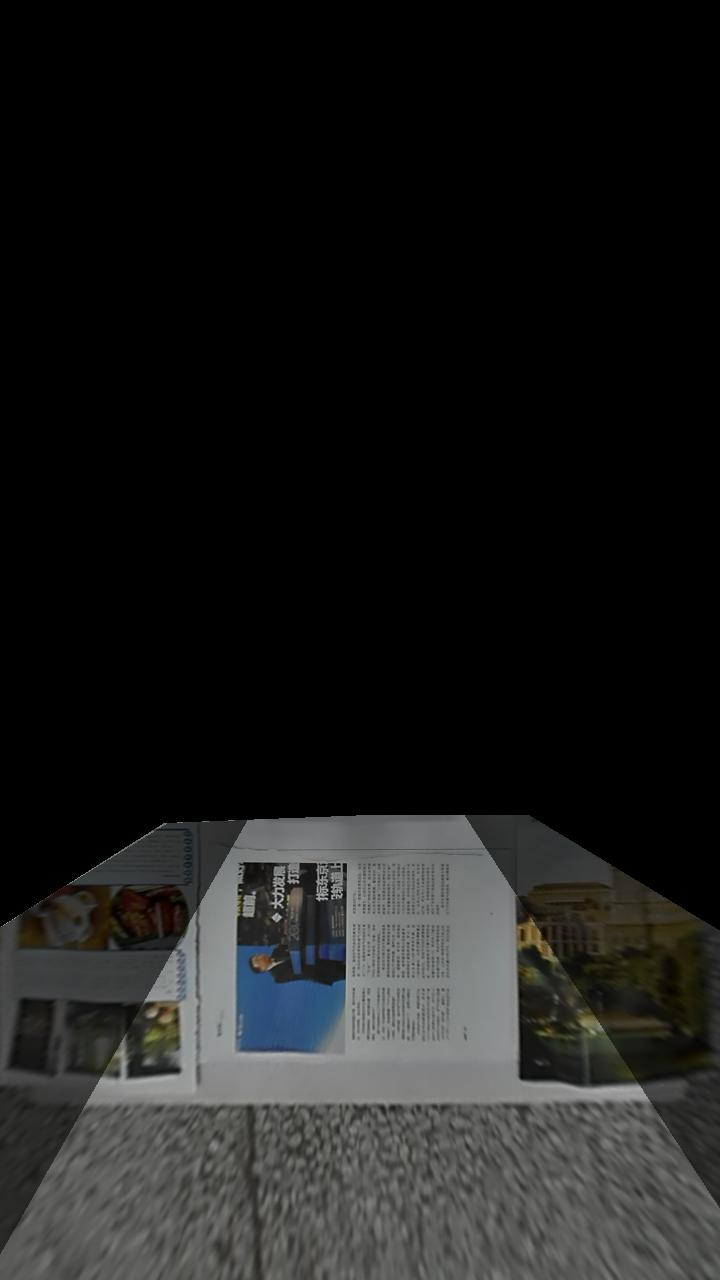
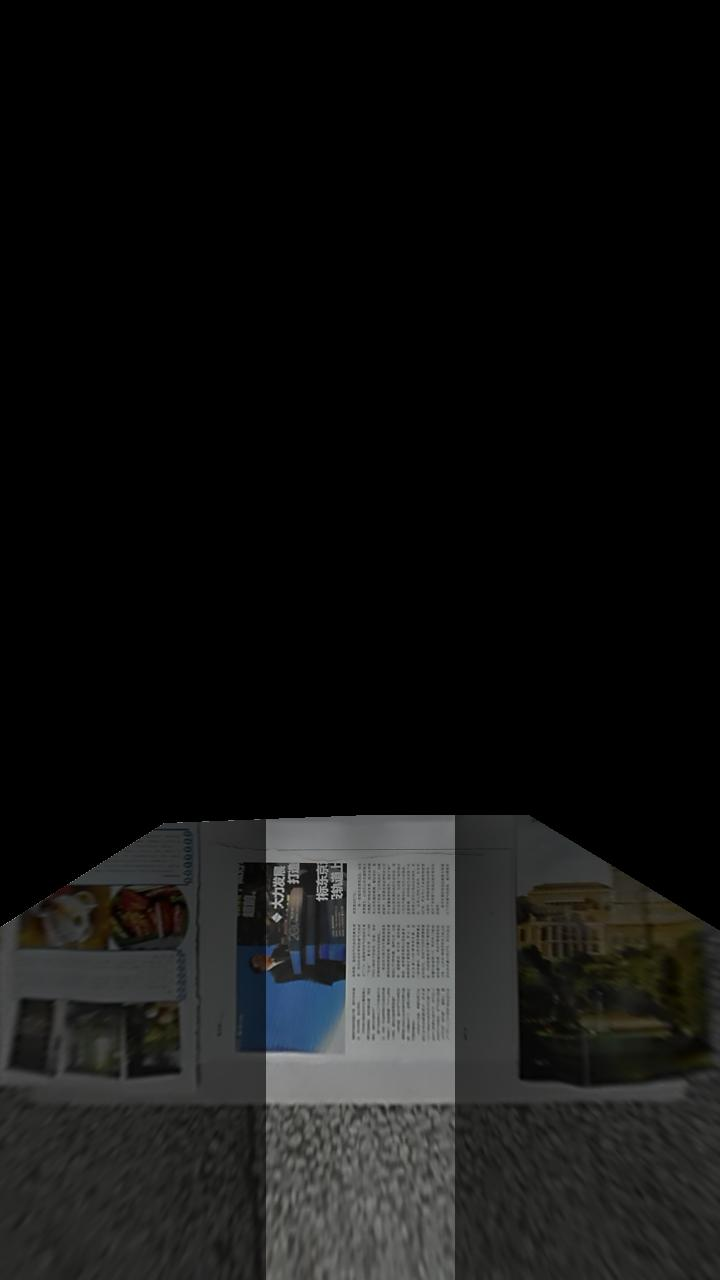
add comment

Changed region(s): [[0.6111, 0.625, 1.0, 1.0], [0.0, 0.625, 0.3667, 1.0]]

diff --git a/TopViewTable1.py b/TopViewTable1.py
@@ -4,7 +4,6 @@ import imageio
 import numpy as np
 from PIL import Image
 
-
 frame_f = imageio.imread("front_undistort.jpg")
 frame_b = imageio.imread("rear_undistort.jpg")
 frame_l = imageio.imread("left_undistort.jpg")
@@ -29,56 +28,75 @@ H_r = np.array([[-1.94364822e+000, -1.13981271e+000, 1.39862231e+003],
                 [-1.12904012e-001, -7.77252018e-002, -1.34969070e+002],
                 [-2.94386805e-003, 3.57765421e-005, 1]])
 
-
+'''
+设置前、左相机的重叠区域
+'''
 f_l_max_v = 465
 f_l_max_u = 265
 f_l_min_v = 0
 f_l_min_u = 0
 
+'''
+设置后、左相机的重叠区域
+'''
 b_l_max_v = 1280
 b_l_max_u = 265
 b_l_min_v = 815
 b_l_min_u = 0
 
+'''
+设置前、右相机的重叠区域
+'''
 f_r_max_v = 465
 f_r_max_u = 720
 f_r_min_v = 0
 f_r_min_u = 455
 
+'''
+设置后、右相机的重叠区域
+'''
 b_r_max_v = 1280
 b_r_max_u = 720
 b_r_min_v = 815
 b_r_min_u = 455
 
-
+'''
+前相机的显示区域ROI
+'''
 f_min_v = 0
 f_max_v = 465
 f_min_u = 0
 f_max_u = 720
 
+'''
+设置后相机的显示区域
+'''
 b_min_v = 815
 b_max_v = 1280
 b_min_u = 0
 b_max_u = 720
 
+'''
+设置左相机的显示区域
+'''
 l_min_v = 0
 l_max_v = 1280
 l_min_u = 0
 l_max_u = 265
 
+'''
+设置右相机的显示区域
+'''
 r_min_v = 0
 r_max_v = 1280
 r_min_u = 455
 r_max_u = 720
 
-'' \
-'frame:inputs(image)' \
-'' \
-'' \
-'' \
-'' \
-'' \
-''
+'''
+
+'''
+
+
 def get_cross_trans_fb_four(frame, H, min_u, max_u, min_v, max_v, cross_min_u1,
                             cross_max_u1, center0, center1, center2, num):
     weights = []
@@ -109,7 +127,6 @@ def get_cross_trans_fb_four(frame, H, min_u, max_u, min_v, max_v, cross_min_u1,
     return weights, out_put_pxiels, in_put_pxiels
 
 
-
 def get_gray_level_four(x, y, weight):
     z = np.array([0, 0, 0, 0])
     w = np.array([weight[1], weight[2], weight[3], weight[4]])
@@ -133,7 +150,6 @@ def get_gray_level_four(x, y, weight):
     return np.array(gray_levels)
 
 
-
 def get_cross_weight_four(frame, in_x, in_y, rate, num):
     intSx, intSy = int(in_x), int(in_y)
     frame_width, frame_height = frame.shape[0], frame.shape[1]
@@ -150,6 +166,9 @@ def get_cross_weight_four(frame, in_x, in_y, rate, num):
     return weight
 
 
+'''
+'''
+
 
 def remap_four(weights, out_put_pxiels, in_put_pxiels):
     out_put_img = np.zeros((1280, 720, frame_f.shape[2]), dtype=frame_f.dtype)
@@ -162,15 +181,16 @@ def remap_four(weights, out_put_pxiels, in_put_pxiels):
     return out_put_img
 
 
-
 '''
 获取交叉区域的权重(基于欧式距离)
 center1 图像1中心点
 center2 图像2中心点
-x       图像1/2交叉区域点x
-y       图像1/2交叉区域点y
-
+x       图像1/2重叠区域像素x
+y       图像1/2重叠区域像素y
+cross_weight 返回对应图像12权重元组
 '''
+
+
 def get_rate(center1, center2, x, y):
     dis1 = np.sqrt(pow(center1[0] - x, 2) + pow(center1[1] - y, 2))
     dis2 = np.sqrt(pow(center2[0] - x, 2) + pow(center2[1] - y, 2))
@@ -180,7 +200,6 @@ def get_rate(center1, center2, x, y):
     return cross_weight
 
 
-
 def get_rate_1(center1, x, y):
     rate1 = abs(center1[0] - x) / center1[1]
     rate2 = 1 - rate1
@@ -188,11 +207,18 @@ def get_rate_1(center1, x, y):
     return cross_weight
 
 
+'''
+centerf front视图的界线中心
+centerb 类似
 
+'''
 centerf = [360, 465]
 centerb = [360, 815]
 centerl = [265, 640]
 centerr = [455, 640]
+'''
+
+'''
 center1 = [265, 265]
 center2 = [455, 265]
 
@@ -235,7 +261,6 @@ bird = Image.fromarray(out_put_img_b1)
 bird.show()
 bird.save("birdb.jpg")
 
-
 weights_f1, out_put_pxiels_f1, in_put_pxiels_f1 = get_cross_trans_fb_four(frame_f, H_f, f_min_u, f_max_u, f_min_v,
                                                                           f_max_v, f_l_max_u, f_r_min_u, centerb,
                                                                           centerl, centerr, 0)
@@ -243,7 +268,6 @@ out_put_img_f1 = remap_four(weights_f1, out_put_pxiels_f1, in_put_pxiels_f1)
 bird = Image.fromarray(out_put_img_f1)
 bird.show()
 bird.save("birdf.jpg")
-
 
 weights_r1, out_put_pxiels_r1, in_put_pxiels_r1 = get_cross_trans_rl_four(frame_r, H_r, r_min_u, r_max_u, r_min_v,
                                                                           r_max_v, f_r_max_v, b_r_min_v, centerr,
@@ -253,7 +277,6 @@ bird = Image.fromarray(out_put_img_r1)
 bird.show()
 bird.save("birdr.jpg")
 
-
 weights_l1, out_put_pxiels_l1, in_put_pxiels_l1 = get_cross_trans_rl_four(frame_l, H_l, l_min_u, l_max_u, l_min_v,
                                                                           l_max_v, f_l_max_v, b_l_min_v, centerl,
                                                                           centerf, centerb, 1)
@@ -262,24 +285,18 @@ bird = Image.fromarray(out_put_img_l1)
 bird.show()
 bird.save("birdl.jpg")
 
-
 weights = weights_f1 + weights_l1 + weights_b1 + weights_r1
 in_put_pxiels = in_put_pxiels_f1 + in_put_pxiels_l1 + in_put_pxiels_b1 + in_put_pxiels_r1
 out_put_pxiels = out_put_pxiels_f1 + out_put_pxiels_l1 + out_put_pxiels_b1 + out_put_pxiels_r1
-
-
 
 out_put_img_1 = out_put_img_l1 + out_put_img_f1 + out_put_img_r1 + out_put_img_b1
 bird = Image.fromarray(out_put_img_1)
 bird.show()
 
-
 bird.save("bird_overall.jpg")
-
 
 weight_dict = {}
 cor_dict = {}
-
 
 for out_put, in_put, weight in zip(out_put_pxiels, in_put_pxiels, weights):
     if out_put not in weight_dict.keys():
@@ -294,13 +311,11 @@ for out_put, in_put, weight in zip(out_put_pxiels, in_put_pxiels, weights):
 #         print (out_put)
 
 
-
 # print (len(weight_dict[0,0]))
 print(cor_dict[0, 0][0] + cor_dict[0, 0][1])
 print(len(cor_dict[(0, 0)]))
 # for i in cor_dict.keys():
 #     print (len(cor_dict[i]))
-
 
 
 dt = np.dtype((np.float64, (1, 5)))
@@ -319,9 +334,8 @@ for out_put in cor_dict.keys():
         weight_table1[out_put[0], out_put[1]] = weight_dict[out_put][0]  # + weight_dict[out_put][1]
         cor_table1[out_put[0], out_put[1]] = cor_dict[out_put][0]  # + cor_dict[out_put][1]
 
-
 # print (weight_table)
-print(cor_table)
+print(cor_table1)
 
 
 def remap(weights, out_put_pxiels, in_put_pxiels):
@@ -339,14 +353,12 @@ def remap(weights, out_put_pxiels, in_put_pxiels):
     return out_put_img
 
 
-
 weights_b2, out_put_pxiels_b2, in_put_pxiels_b2 = get_cross_trans_fb_four(frame_b, H_b, b_min_u, b_max_u, b_min_v,
                                                                           b_max_v, b_l_max_u, b_r_min_u, centerb,
                                                                           center1, center2, 2)
 out_put_img_b2 = remap_four(weights_b2, out_put_pxiels_b2, in_put_pxiels_b2)
 bird = Image.fromarray(out_put_img_b2)
 bird.show()
-
 
 weights_f2, out_put_pxiels_f2, in_put_pxiels_f2 = get_cross_trans_fb_four(frame_f, H_f, f_min_u, f_max_u, f_min_v,
                                                                           f_max_v, f_l_max_u, f_r_min_u, centerb,
@@ -355,14 +367,12 @@ out_put_img_f2 = remap_four(weights_f2, out_put_pxiels_f2, in_put_pxiels_f2)
 bird = Image.fromarray(out_put_img_f2)
 bird.show()
 
-
 weights_r2, out_put_pxiels_r2, in_put_pxiels_r2 = get_cross_trans_rl_four(frame_r, H_r, r_min_u, r_max_u, r_min_v,
                                                                           r_max_v, f_r_max_v, b_r_min_v, centerr,
                                                                           center1, center2, 3)
 out_put_img_r2 = remap_four(weights_r2, out_put_pxiels_r2, in_put_pxiels_r2)
 bird = Image.fromarray(out_put_img_r2)
 bird.show()
-
 
 weights_l2, out_put_pxiels_l2, in_put_pxiels_l2 = get_cross_trans_rl_four(frame_l, H_l, l_min_u, l_max_u, l_min_v,
                                                                           l_max_v, f_l_max_v, b_l_min_v, centerl,
@@ -371,16 +381,13 @@ out_put_img_l2 = remap_four(weights_l2, out_put_pxiels_l2, in_put_pxiels_l2)
 bird = Image.fromarray(out_put_img_l1)
 bird.show()
 
-
 weights = weights_f2 + weights_l2 + weights_b2 + weights_r2
 in_put_pxiels = in_put_pxiels_f2 + in_put_pxiels_l2 + in_put_pxiels_b2 + in_put_pxiels_r2
 out_put_pxiels = out_put_pxiels_f2 + out_put_pxiels_l2 + out_put_pxiels_b2 + out_put_pxiels_r2
 
-
 out_put_img_2 = out_put_img_l2 + out_put_img_f2 + out_put_img_r2 + out_put_img_b2
 bird = Image.fromarray(out_put_img_2)
 bird.show()
-
 
 import time
 

diff --git a/TopViewTable2.py b/TopViewTable2.py
@@ -246,14 +246,12 @@ out_put_img_l1 = remap_four(weights_l1, out_put_pxiels_l1, in_put_pxiels_l1)
 bird = Image.fromarray(out_put_img_l1)
 bird.show()
 
-
 weights_r1, out_put_pxiels_r1, in_put_pxiels_r1 = get_cross_trans_four1(frame_r, H_r, r_min_u, r_max_u, r_min_v,
                                                                         r_max_v, length1, length2, line_fr, line_br,
                                                                         centerr, centerf, centerb, 3, 1)
 out_put_img_r1 = remap_four(weights_r1, out_put_pxiels_r1, in_put_pxiels_r1)
 bird = Image.fromarray(out_put_img_r1)
 bird.show()
-
 
 weights = weights_f1 + weights_l1 + weights_b1 + weights_r1
 in_put_pxiels = in_put_pxiels_f1 + in_put_pxiels_l1 + in_put_pxiels_b1 + in_put_pxiels_r1
@@ -265,7 +263,6 @@ out_put_pxiels = out_put_pxiels_f1 + out_put_pxiels_l1 + out_put_pxiels_b1 + out
 out_put_img_1 = out_put_img_l1 + out_put_img_f1 + out_put_img_r1 + out_put_img_b1
 bird = Image.fromarray(out_put_img_1)
 bird.show()
-
 
 import time
 
@@ -308,7 +305,6 @@ def get_cross_trans_four2(frame, H, min_u, max_u, min_v, max_v, length1, length2
             in_put_pxiel = (frame_x, frame_y)
             in_put_pxiels.append(in_put_pxiel)
     return weights, out_put_pxiels, in_put_pxiels
-
 
 
 range1 = line_fr[0] * (719) + line_fr[1]
